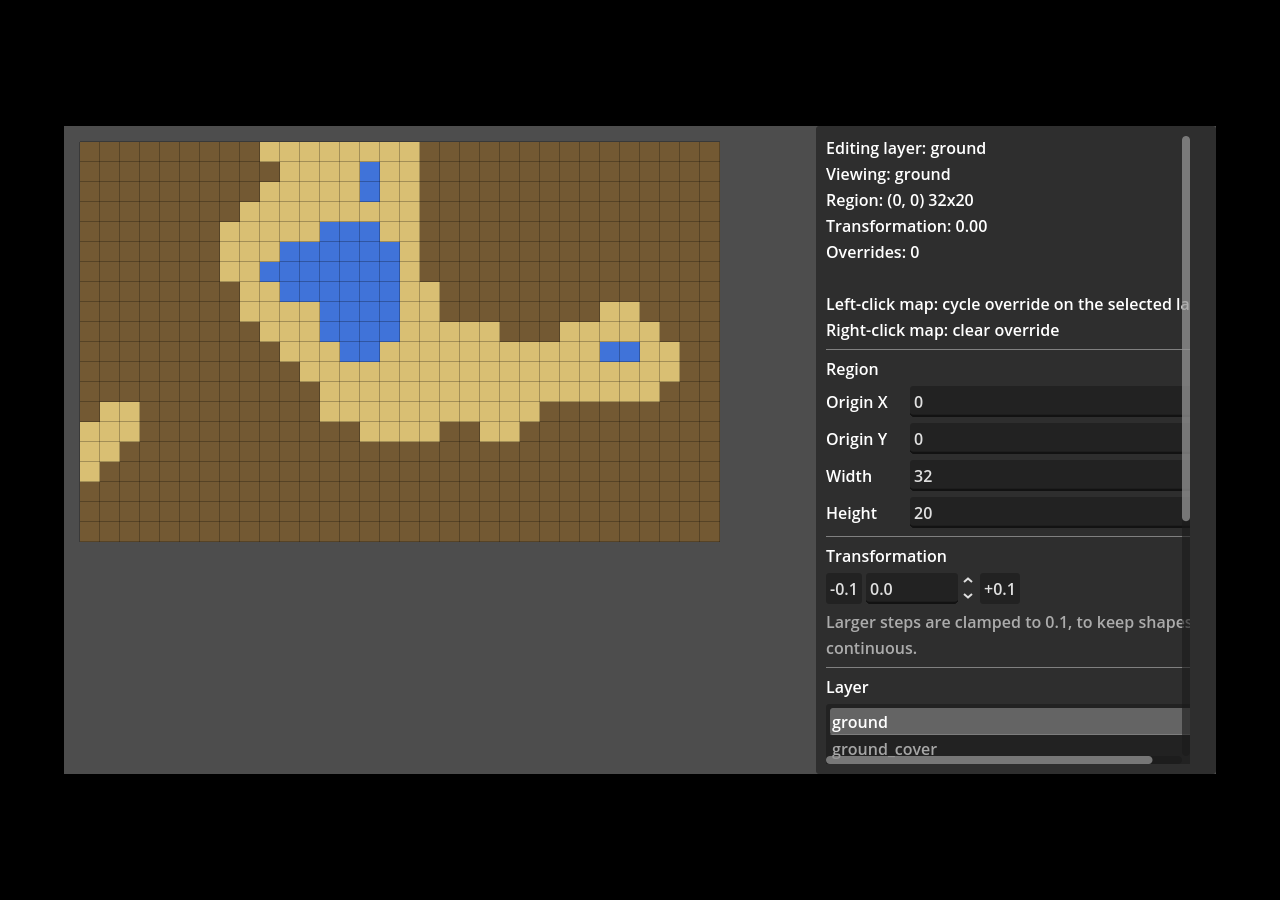
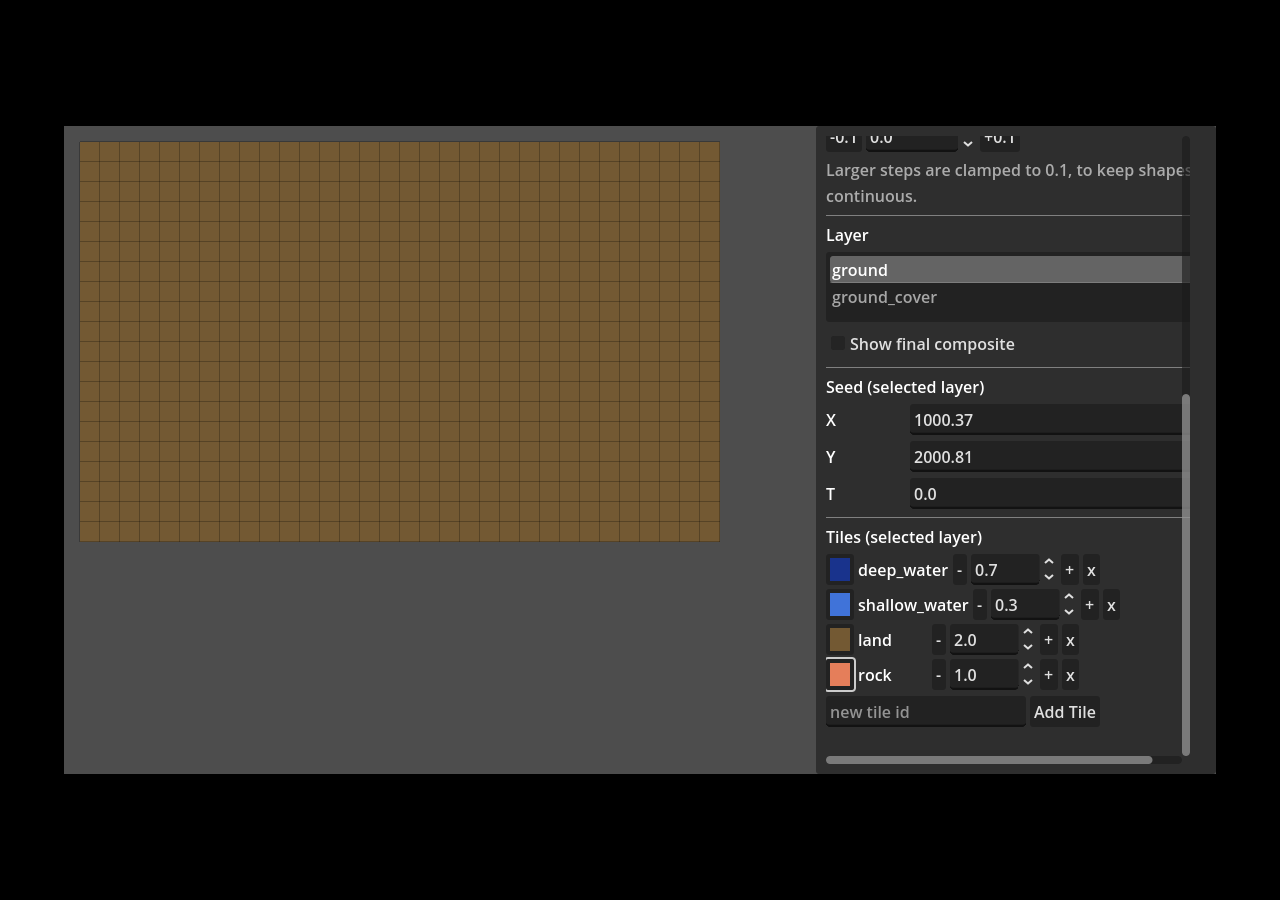
Add per-layer tile add/remove and a color picker to the map editor tool
Each tile row in the map editor tool now has a ColorPickerButton
swatch (Godot's native RGB/HSV/hex color picker) and a remove ("x")
button, plus a text field + "Add Tile" button below the list to
append a new tile (default range 1.0) to the selected layer. Tile
color is tracked per tile id in the tool itself, not on the engine's
TileDef -- it's a rendering concern, and stands in for tile art until
real art exists, same as the rest of the color-block rendering. A
newly added tile gets an auto-assigned color spread around the hue
wheel so consecutive additions stay visually distinct, and can be
repicked immediately. The last tile on a layer can't be removed
(CompiledLayer requires at least one), and Regenerate() now catches
the ArgumentException that a degenerate all-zero-range layer would
throw and reports it in the status label instead of crashing.

Verified in the real Godot 4.4.1 editor under Xvfb + software OpenGL
with actual xdotool interaction: added a tile and watched it appear
with an auto-color and reshape the map, removed a tile and confirmed
the remaining tiles' cumulative bounds reshuffled as the weighted-
range model dictates, and opened the color picker, picked a new
color, and confirmed it took effect and persisted.

Claude-Session: https://claude.ai/code/session_01HyQzrxM5WxZCaM1fikRF11

Changed region(s): [[0.625, 0.1556, 0.9375, 0.84], [0.1562, 0.1556, 0.5312, 0.4978], [0.0625, 0.4356, 0.125, 0.56]]

diff --git a/godot/Scripts/MapEditorToolScene.cs b/godot/Scripts/MapEditorToolScene.cs
@@ -28,7 +28,11 @@ namespace ProcGenGame
         private const int MapMargin = 16;
         private const int SidePanelWidth = 400;
 
-        private static readonly Dictionary<string, Color> TileColors = new Dictionary<string, Color>
+        // Display color per tile id -- a rendering concern, so it lives here in the tool, not on
+        // the engine's TileDef. Colors stand in for tile art until real art exists ("represented
+        // by color blocks for now"); a tool built against real art would swap this for atlas
+        // coordinates the same way ProcGenTileMapView does.
+        private readonly Dictionary<string, Color> _tileColors = new Dictionary<string, Color>
         {
             ["deep_water"] = new Color(0.10f, 0.20f, 0.55f),
             ["shallow_water"] = new Color(0.25f, 0.45f, 0.85f),
@@ -58,6 +62,8 @@ namespace ProcGenGame
         private SpinBox _seedTBox = null!;
         private SpinBox _transformationBox = null!;
         private VBoxContainer _tilesContainer = null!;
+        private LineEdit _newTileIdEdit = null!;
+        private Label _addTileHintLabel = null!;
         private Label _statusLabel = null!;
         private CheckBox _compositeToggle = null!;
 
@@ -77,7 +83,7 @@ namespace ProcGenGame
             _overrides = new OverrideStore();
 
             BuildUi();
-            _overlay.SetTileColors(TileColors);
+            _overlay.SetTileColors(_tileColors);
 
             RefreshLayerList();
             SelectLayer(0);
@@ -196,6 +202,17 @@ namespace ProcGenGame
             root.AddChild(Header("Tiles (selected layer)"));
             _tilesContainer = new VBoxContainer();
             root.AddChild(_tilesContainer);
+
+            var addRow = new HBoxContainer();
+            _newTileIdEdit = new LineEdit { PlaceholderText = "new tile id", CustomMinimumSize = new Vector2(200, 0) };
+            addRow.AddChild(_newTileIdEdit);
+            var addTileButton = new Button { Text = "Add Tile" };
+            addTileButton.Pressed += OnAddTilePressed;
+            addRow.AddChild(addTileButton);
+            root.AddChild(addRow);
+
+            _addTileHintLabel = new Label { Modulate = new Color(1, 1, 1, 0.6f), AutowrapMode = TextServer.AutowrapMode.WordSmart };
+            root.AddChild(_addTileHintLabel);
         }
 
         private static Label Header(string text)
@@ -276,12 +293,21 @@ namespace ProcGenGame
             foreach (var tile in layer.Tiles)
             {
                 var row = new HBoxContainer();
-                row.AddChild(new Label { Text = tile.Id, CustomMinimumSize = new Vector2(90, 0) });
+
+                var colorButton = new ColorPickerButton { Color = GetTileColor(tile.Id), CustomMinimumSize = new Vector2(28, 0) };
+                colorButton.ColorChanged += c =>
+                {
+                    _tileColors[tile.Id] = c;
+                    _overlay.SetTileColors(_tileColors);
+                };
+                row.AddChild(colorButton);
+
+                row.AddChild(new Label { Text = tile.Id, CustomMinimumSize = new Vector2(70, 0) });
 
                 var minus = new Button { Text = "-" };
                 // Fixed width for the same reason as the Transformation field above: predictable
                 // total row size inside a ScrollContainer, regardless of expand-fill clipping.
-                var spin = new SpinBox { Step = 0.1, MinValue = 0, MaxValue = 1000, CustomMinimumSize = new Vector2(80, 0) };
+                var spin = new SpinBox { Step = 0.1, MinValue = 0, MaxValue = 1000, CustomMinimumSize = new Vector2(70, 0) };
                 spin.Value = tile.Range;
                 var plus = new Button { Text = "+" };
 
@@ -298,8 +324,67 @@ namespace ProcGenGame
                 row.AddChild(minus);
                 row.AddChild(spin);
                 row.AddChild(plus);
+
+                var remove = new Button { Text = "x", Disabled = layer.Tiles.Count <= 1 };
+                remove.TooltipText = layer.Tiles.Count <= 1
+                    ? "A layer needs at least one tile"
+                    : $"Remove '{tile.Id}' from this layer";
+                remove.Pressed += () => OnRemoveTile(layer, tile);
+                row.AddChild(remove);
+
                 _tilesContainer.AddChild(row);
             }
+        }
+
+        private void OnAddTilePressed()
+        {
+            string id = _newTileIdEdit.Text.Trim();
+            var layer = _definition.Layers[_selectedLayerIndex];
+
+            if (string.IsNullOrEmpty(id))
+            {
+                _addTileHintLabel.Text = "Enter a tile id first.";
+                return;
+            }
+            if (layer.Tiles.Exists(t => t.Id == id))
+            {
+                _addTileHintLabel.Text = $"Layer '{layer.Id}' already has a tile called '{id}'.";
+                return;
+            }
+
+            layer.Tiles.Add(new TileDef(id, 1.0));
+            GetTileColor(id); // assigns this new id a default color if it doesn't have one yet
+            _newTileIdEdit.Text = "";
+            _addTileHintLabel.Text = "";
+
+            RebuildTileRows(layer);
+            _overlay.SetTileColors(_tileColors);
+            Regenerate();
+        }
+
+        private void OnRemoveTile(LayerDef layer, TileDef tile)
+        {
+            if (layer.Tiles.Count <= 1) return; // CompiledLayer requires at least one tile
+            layer.Tiles.Remove(tile);
+            RebuildTileRows(layer);
+            Regenerate();
+        }
+
+        private Color GetTileColor(string tileId)
+        {
+            if (!_tileColors.TryGetValue(tileId, out var color))
+            {
+                color = NextDefaultColor();
+                _tileColors[tileId] = color;
+            }
+            return color;
+        }
+
+        /// <summary>Spreads hues around the color wheel (golden-ratio step) so tiles added one after another get visually distinct default colors.</summary>
+        private Color NextDefaultColor()
+        {
+            float hue = (_tileColors.Count * 0.618034f) % 1.0f;
+            return Color.FromHsv(hue, 0.55f, 0.85f);
         }
 
         private void UpdateOverlayView()
@@ -373,9 +458,19 @@ namespace ProcGenGame
         private void Regenerate()
         {
             var region = new RegionSpec(_originX, _originY, _regionWidth, _regionHeight, _transformation);
-            var result = MapGenerator.GenerateRegion(_definition, region, _overrides);
-            _overlay.Render(result, region, _overrides);
-            UpdateStatus();
+            try
+            {
+                var result = MapGenerator.GenerateRegion(_definition, region, _overrides);
+                _overlay.Render(result, region, _overrides);
+                UpdateStatus();
+            }
+            catch (ArgumentException ex)
+            {
+                // Reachable now that tile ranges/removal are editable, e.g. every tile on a layer
+                // nudged to a range of 0 leaves nothing to select from. Report it instead of
+                // crashing; the last successful render stays on screen.
+                _statusLabel.Text = $"Cannot generate: {ex.Message}";
+            }
         }
 
         private void UpdateStatus()

diff --git a/README.md b/README.md
@@ -108,7 +108,7 @@ writes straight into the live `MapDefinition`/`OverrideStore` the engine consume
 `MapGenerator.GenerateRegion` again — there's no separate "tool state" that could drift from what
 actually gets generated.
 
-![Map editor tool: region/Transformation/layer/seed/tile-range panel on the right, live-generated map on the left, one hand-painted override outlined](docs/map_editor_tool_reference.png)
+![Map editor tool: region/Transformation/layer/seed/tile-range panel on the right, live-generated map on the left, a color-picker-assigned tile color visible in the tile list](docs/map_editor_tool_reference.png)
 
 Panel sections, top to bottom:
 - **Region** — origin X/Y and width/height of the generated region, so you can generate/view any
@@ -120,9 +120,23 @@ Panel sections, top to bottom:
   layer's raw resolution (or check "Show final composite" to see the composited result instead).
 - **Seed (selected layer)** — that layer's X/Y/T position in the generation lattice, freely
   editable.
-- **Tiles (selected layer)** — one row per tile: id, a `-` button, a manually-editable range field,
-  and a `+` button, each nudge moving the range by 0.1 exactly as asked for. Changing a range
-  regenerates immediately, so the effect on the map is visible right away.
+- **Tiles (selected layer)** — one row per tile: a color swatch, id, a `-` button, a
+  manually-editable range field, a `+` button (each nudge moving the range by 0.1), and an `x` to
+  remove that tile. Below the list, a text field + "Add Tile" button appends a new tile (default
+  range 1.0) to the selected layer. Changing any of this regenerates immediately.
+  - The color swatch is a real `ColorPickerButton` — clicking it opens Godot's native color
+    picker (RGB/HSV/hex, swatches, recent colors). Since there's no tile art yet, color is what
+    represents a tile visually; a newly added tile gets an auto-assigned color (spread around the
+    hue wheel so consecutive additions look distinct) that you can then repick.
+  - Removing a tile (or adding one, or nudging any range) changes the layer's total weight, which
+    reshuffles the cumulative selection bounds for *every* tile on that layer -- not just the one
+    you touched. That's the weighted-range model working as specified (selection normalizes into
+    `[0, sum of ranges)`), not a bug, but it means a small edit can visibly reshuffle tiles you
+    didn't touch. `RangeSum` in `Selection/CompiledLayer.cs` is where this happens.
+  - The last remaining tile on a layer can't be removed (the `x` button disables itself) --
+    `CompiledLayer` requires at least one tile with positive total range, and `Regenerate()` now
+    catches that `ArgumentException` and reports it in the status label instead of crashing, in
+    case a layer's ranges are nudged all the way down to a zero total.
 
 Left-click on the map still cycles a manual override on the selected layer at that cell (same
 mechanism as the visual debug demo); right-click clears it. Painting is the exception path for
@@ -193,7 +207,7 @@ Not built yet, on purpose:
   list" for "look up this layer's compiled tile list *at this position*" — not a restructure.
 - The Godot `Resource` save/export adapter (layer definitions + seeds + override diffs, mirroring
   `MapDefinition`/`OverrideStore` 1:1, living in `godot/` so the engine stays Godot-free).
-- In the editor tool specifically: add/remove/reorder layers and tiles, `writes_over` filter
-  editing, noise parameter editing (octaves/frequency/persistence/lacunarity), and a pan/zoom
-  camera for the map view (the region panel's Origin X/Y fields cover "any arbitrary region," just
-  not by dragging).
+- In the editor tool specifically: add/remove layers (tiles can already be added/removed per
+  layer), reordering layers or tiles, `writes_over` filter editing, noise parameter editing
+  (octaves/frequency/persistence/lacunarity), and a pan/zoom camera for the map view (the region
+  panel's Origin X/Y fields cover "any arbitrary region," just not by dragging).

diff --git a/INTEGRATION.md b/INTEGRATION.md
@@ -187,19 +187,23 @@ that's the architectural guarantee from milestone 1.
 
 `godot/Scenes/MapEditorTool.tscn` / `Scripts/MapEditorToolScene.cs` is a working reference for the
 property-panel half of a map-making tool: a fixed side panel (region origin/size, Transformation,
-a layer picker, the selected layer's seed X/Y/T, and the selected layer's tile ranges with manual
-entry + `-`/`+` nudge buttons) that writes straight into a live `MapDefinition`/`OverrideStore` and
-regenerates on every change, plus click-to-paint on top via `ProcGenDebugOverlay`. It's built
-entirely from Godot `Control` nodes constructed in code (no Inspector/editor-plugin dependency),
-so it runs the same way whether it's a standalone tool scene (as here) or embedded in a bigger
-editor UI. See its doc comment and the README's "The map editor tool" section for a screenshot and
+a layer picker, the selected layer's seed X/Y/T, and the selected layer's tiles -- each with a
+`ColorPickerButton` swatch, manual-entry range + `-`/`+` nudge buttons, and a remove button, plus
+an "Add Tile" field/button below the list) that writes straight into a live
+`MapDefinition`/`OverrideStore` and regenerates on every change, plus click-to-paint on top via
+`ProcGenDebugOverlay`. It's built entirely from Godot `Control` nodes constructed in code (no
+Inspector/editor-plugin dependency), so it runs the same way whether it's a standalone tool scene
+(as here) or embedded in a bigger editor UI. Tile color is tracked per tile id in the tool (not on
+the engine's `TileDef`, since it's a rendering concern) and stands in for tile art until real art
+exists. See its doc comment and the README's "The map editor tool" section for a screenshot and
 the panel layout.
 
 Still not built, per the milestone-1 scope ("Deferred by design" in the root `README.md`):
 - A camera/pan-and-zoom setup around the map view for navigating without typing exact
   origin/width/height (the region fields already support "any arbitrary region," just not by
   dragging).
-- Add/remove/reorder layers and tiles, `writes_over` filter editing, and noise parameter editing
-  (octaves/frequency/persistence/lacunarity) — the panel currently edits an existing layer's seed
-  and tile ranges only.
-- Saving/loading `MapDefinition` + `OverrideStore`.
+- Add/remove layers (tiles can already be added/removed per layer), reordering layers or tiles,
+  `writes_over` filter editing, and noise parameter editing
+  (octaves/frequency/persistence/lacunarity).
+- Saving/loading `MapDefinition` + `OverrideStore` (which would also need to persist the tool's
+  tile-id -> color map alongside it, for the palette to survive a reload).
